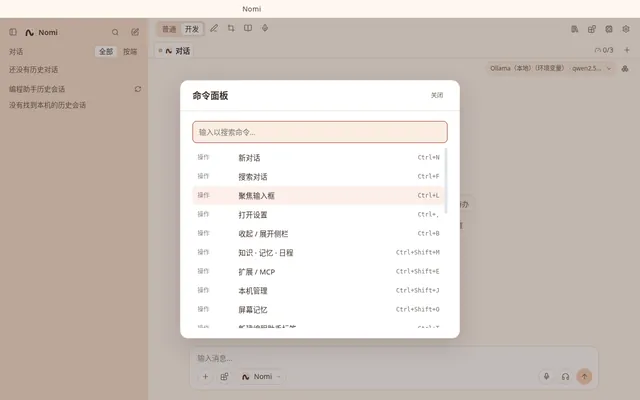
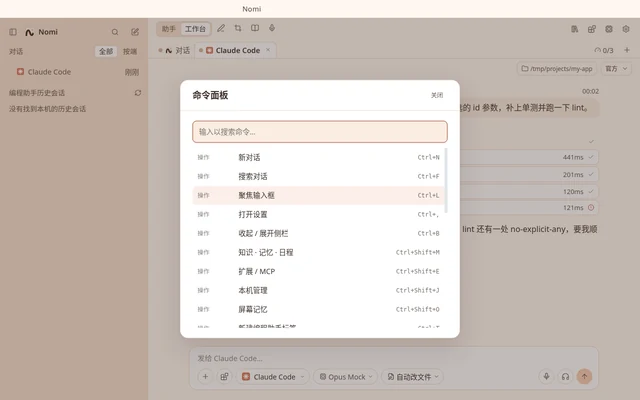
site: v1.1.1 home — new slogan, 懂你所需/付诸行动/桌面相伴 cards, modes copy, re-shot screenshots with 助手/工作台 labels

diff --git a/index.html b/index.html
@@ -3,16 +3,16 @@
 <head>
   <meta charset="UTF-8" />
   <meta name="viewport" content="width=device-width, initial-scale=1" />
-  <meta name="description" content="Nomi·诺米——平时是伙伴，干活是搭档。助手模式陪你聊天、提醒、记事；工作台模式管好 Claude Code、Codex 等编程助手。本地优先，Windows / macOS / Linux。" />
+  <meta name="description" content="Nomi·诺米——懂你的日常，也能搞定工作。助手模式陪你聊天、记事、提醒；工作台模式并行 Claude Code、Codex 等编程助手。本地优先，Windows / macOS / Linux。" />
   <meta name="theme-color" content="#FCEFE1" />
-  <meta property="og:title" content="Nomi·诺米 — 平时是伙伴，干活是搭档" />
-  <meta property="og:description" content="平时是伙伴，干活是搭档。助手模式陪伴，工作台模式管好编程助手。本地优先。" />
+  <meta property="og:title" content="Nomi·诺米 — 懂你的日常，也能搞定工作" />
+  <meta property="og:description" content="懂你的日常，也能搞定工作。助手模式陪伴日常，工作台模式并行编程助手。本地优先。" />
   <meta property="og:image" content="https://withnomi.app/assets/brand/nomi-brand-avatar.jpg" />
-  <title>Nomi·诺米 — 平时是伙伴，干活是搭档</title>
+  <title>Nomi·诺米 — 懂你的日常，也能搞定工作</title>
   <link rel="icon" href="assets/brand/nomi-mark.svg" type="image/svg+xml" />
   <link rel="preload" href="assets/fonts/nunito-latin.woff2" as="font" type="font/woff2" crossorigin />
   <link rel="preload" as="image" href="assets/brand/nomi-brand-avatar-440.webp" imagesrcset="assets/brand/nomi-brand-avatar-440.webp 440w, assets/brand/nomi-brand-avatar-880.webp 880w" imagesizes="(max-width: 500px) calc(100vw - 6rem), 413px" fetchpriority="high" />
-  <link rel="stylesheet" href="css/styles.css?v=20261022b" />
+  <link rel="stylesheet" href="css/styles.css?v=20261022c" />
 </head>
 <body data-page="home" id="top">
   <header class="site-header">
@@ -51,8 +51,8 @@
         <div class="hero-copy">
           <div class="hero-badge"><span class="dot" aria-hidden="true"></span> <span data-i18n="hero.badge">本地优先 · Windows / macOS / Linux</span></div>
           <h1 data-i18n="hero.title">Nomi·诺米</h1>
-          <p class="hero-slogan" data-i18n="hero.slogan">平时是伙伴，干活是搭档。</p>
-          <p class="hero-promise" data-i18n="hero.promise">助手模式陪你聊天、记事、提醒；工作台模式在一个窗口里管好 Claude Code、Codex 等编程助手。都在你自己的电脑上。</p>
+          <p class="hero-slogan" data-i18n="hero.slogan">懂你的日常，也能搞定工作。</p>
+          <p class="hero-promise" data-i18n="hero.promise">平常在助手模式里，诺米陪你聊天、记事、提醒；忙起来就切到工作台模式，和 Claude Code、Codex 等编程助手一起把活儿干完。</p>
           <div class="hero-actions">
             <a class="btn btn-primary btn-lg" href="#download" data-i18n="hero.download">立即下载</a>
             <a class="btn btn-secondary btn-lg" href="https://github.com/Cookieboty/nomi-ai" rel="noopener noreferrer" target="_blank" data-i18n="hero.github">在 GitHub 查看</a>
@@ -81,24 +81,24 @@
       <div class="container">
         <div class="section-head">
           <span class="section-label"><span class="star-mark" aria-hidden="true"><svg viewBox="0 0 24 24"><path fill="currentColor" d="M12 2C12.8 7 14.5 9 19.5 10C14.5 11 12.8 13 12 18C11.2 13 9.5 11 4.5 10C9.5 9 11.2 7 12 2Z"/></svg></span><span data-i18n="pillars.label">三个承诺</span></span>
-          <h2 id="pillars-title" data-i18n="pillars.title">陪伴 · 做事 · 本机</h2>
-          <p class="lead" data-i18n="pillars.lead">Nomi 不止是聊天助手：陪着你，也帮你把事做完，而且都在本机。</p>
+          <h2 id="pillars-title" data-i18n="pillars.title">懂你 · 行动 · 相伴</h2>
+          <p class="lead" data-i18n="pillars.lead">诺米记得你的习惯，替你动手做事，也一直在桌面守候。</p>
         </div>
         <div class="pillars">
           <article class="pillar">
             <div class="icon-star" aria-hidden="true"><svg viewBox="0 0 24 24"><path fill="currentColor" d="M12 2C12.8 7 14.5 9 19.5 10C14.5 11 12.8 13 12 18C11.2 13 9.5 11 4.5 10C9.5 9 11.2 7 12 2Z"/></svg></div>
-            <h3 data-i18n="pillars.tasks.title">陪着你</h3>
-            <p data-i18n="pillars.tasks.desc">会动会说话，记得你，按时提醒——把日子过得有人陪。</p>
+            <h3 data-i18n="pillars.tasks.title">懂你所需</h3>
+            <p data-i18n="pillars.tasks.desc">记得你的习惯和说过的话，知道你今天要忙什么，提醒总在刚刚好的时候。</p>
           </article>
           <article class="pillar">
             <div class="icon-star" aria-hidden="true"><svg viewBox="0 0 24 24"><path fill="currentColor" d="M12 2C12.8 7 14.5 9 19.5 10C14.5 11 12.8 13 12 18C11.2 13 9.5 11 4.5 10C9.5 9 11.2 7 12 2Z"/></svg></div>
-            <h3 data-i18n="pillars.exec.title">帮你做</h3>
-            <p data-i18n="pillars.exec.desc">知识库、屏幕问答，多个编程助手并行——想法变成行动。</p>
+            <h3 data-i18n="pillars.exec.title">付诸行动</h3>
+            <p data-i18n="pillars.exec.desc">读文件、看屏幕、查知识库，再叫上编程助手一起开工——说到就能做到。</p>
           </article>
           <article class="pillar">
             <div class="icon-star" aria-hidden="true"><svg viewBox="0 0 24 24"><path fill="currentColor" d="M12 2C12.8 7 14.5 9 19.5 10C14.5 11 12.8 13 12 18C11.2 13 9.5 11 4.5 10C9.5 9 11.2 7 12 2Z"/></svg></div>
-            <h3 data-i18n="pillars.care.title">在本机</h3>
-            <p data-i18n="pillars.care.desc">数据留在电脑上，云端或本地模型随你选——有用，也安心。</p>
+            <h3 data-i18n="pillars.care.title">桌面相伴</h3>
+            <p data-i18n="pillars.care.desc">会动、会说话，你忙时安静等候，闲下来就陪你聊上两句。</p>
           </article>
         </div>
       </div>
@@ -107,9 +107,10 @@
     <section class="section section-tight" aria-labelledby="modes-title">
       <div class="container">
         <div class="section-head">
-          <span class="section-label"><span class="star-mark" aria-hidden="true"><svg viewBox="0 0 24 24"><path fill="currentColor" d="M12 2C12.8 7 14.5 9 19.5 10C14.5 11 12.8 13 12 18C11.2 13 9.5 11 4.5 10C9.5 9 11.2 7 12 2Z"/></svg></span><span data-i18n="modes.label">两种用法</span></span>
-          <h2 id="modes-title" data-i18n="modes.title">一个诺米，两种用法</h2>
-          <p class="lead" data-i18n="modes.lead">顶栏一键切换，随时换回来；切走时后台任务照常进行。</p>
+          <span class="section-label"><span class="star-mark" aria-hidden="true"><svg viewBox="0 0 24 24"><path fill="currentColor" d="M12 2C12.8 7 14.5 9 19.5 10C14.5 11 12.8 13 12 18C11.2 13 9.5 11 4.5 10C9.5 9 11.2 7 12 2Z"/></svg></span><span data-i18n="modes.label">随时切换</span></span>
+          <h2 id="modes-title" data-i18n="modes.title">两种模式，一个诺米</h2>
+          <p class="lead" data-i18n="modes.lead">一种陪伴，两种工作方式。</p>
+          <p class="lead" data-i18n="modes.sub">日常交给诺米，复杂工作也能从容应对。</p>
         </div>
         <div class="modes">
           <article class="mode-card">
@@ -153,7 +154,7 @@
             <p data-i18n="spot.coding.desc">切到工作台模式，Claude Code、Codex、Gemini CLI、Grok、dsh 多标签并行；工具调用、diff 与子代理一目了然，权限与账号随手切换。</p>
           </div>
           <div class="spotlight-media">
-            <img src="assets/screenshots/coding-agent.webp?v=20261022b" srcset="assets/screenshots/coding-agent-640.webp?v=20261022b 640w, assets/screenshots/coding-agent.webp?v=20261022b 1280w, assets/screenshots/coding-agent-2x.webp?v=20261022b 2560w" sizes="(max-width: 800px) calc(100vw - 2.5rem), 560px" data-i18n-alt="gallery.codingAlt" alt="工作台模式：Claude Code 标签页，思考、文件探索、子代理与编辑步骤清晰可见，底部是权限模式" width="1280" height="800" loading="lazy" decoding="async" />
+            <img src="assets/screenshots/coding-agent.webp?v=20261022c" srcset="assets/screenshots/coding-agent-640.webp?v=20261022c 640w, assets/screenshots/coding-agent.webp?v=20261022c 1280w, assets/screenshots/coding-agent-2x.webp?v=20261022c 2560w" sizes="(max-width: 800px) calc(100vw - 2.5rem), 560px" data-i18n-alt="gallery.codingAlt" alt="工作台模式：Claude Code 标签页，思考、文件探索、子代理与编辑步骤清晰可见，底部是权限模式" width="1280" height="800" loading="lazy" decoding="async" />
           </div>
         </div>
       </div>
@@ -224,11 +225,11 @@
             <figcaption data-i18n="gallery.mascot">桌面伙伴</figcaption>
           </figure>
           <figure class="gallery-item">
-            <img src="assets/screenshots/chat.webp?v=20261022b" srcset="assets/screenshots/chat-640.webp?v=20261022b 640w, assets/screenshots/chat.webp?v=20261022b 1280w, assets/screenshots/chat-2x.webp?v=20261022b 2560w" sizes="(max-width: 700px) calc(100vw - 2.5rem), 560px" data-i18n-alt="gallery.chatAlt" alt="助手模式：顶栏可切换模式，左侧会话列表，右侧与诺米整理待办的对话" width="1280" height="800" loading="lazy" decoding="async" />
+            <img src="assets/screenshots/chat.webp?v=20261022c" srcset="assets/screenshots/chat-640.webp?v=20261022c 640w, assets/screenshots/chat.webp?v=20261022c 1280w, assets/screenshots/chat-2x.webp?v=20261022c 2560w" sizes="(max-width: 700px) calc(100vw - 2.5rem), 560px" data-i18n-alt="gallery.chatAlt" alt="助手模式：顶栏一键切换助手 / 工作台，左侧会话列表，右侧是开聊的快捷建议" width="1280" height="800" loading="lazy" decoding="async" />
             <figcaption data-i18n="gallery.chat">助手模式</figcaption>
           </figure>
           <figure class="gallery-item">
-            <img src="assets/screenshots/command-palette.webp?v=20261022b" srcset="assets/screenshots/command-palette-640.webp?v=20261022b 640w, assets/screenshots/command-palette.webp?v=20261022b 1280w, assets/screenshots/command-palette-2x.webp?v=20261022b 2560w" sizes="(max-width: 700px) calc(100vw - 2.5rem), 560px" data-i18n-alt="gallery.paletteAlt" alt="命令面板（Ctrl/⌘+K）：搜索并执行新对话、设置、记忆等命令" width="1280" height="800" loading="lazy" decoding="async" />
+            <img src="assets/screenshots/command-palette.webp?v=20261022c" srcset="assets/screenshots/command-palette-640.webp?v=20261022c 640w, assets/screenshots/command-palette.webp?v=20261022c 1280w, assets/screenshots/command-palette-2x.webp?v=20261022c 2560w" sizes="(max-width: 700px) calc(100vw - 2.5rem), 560px" data-i18n-alt="gallery.paletteAlt" alt="命令面板（Ctrl/⌘+K）：搜索并执行新对话、设置、记忆等命令" width="1280" height="800" loading="lazy" decoding="async" />
             <figcaption data-i18n="gallery.palette">命令面板（Ctrl/⌘+K）</figcaption>
           </figure>
           <figure class="gallery-item">
@@ -325,7 +326,7 @@
             <img class="mark" src="assets/brand/nomi-mark.svg" alt="" width="32" height="32" />
             <span class="logo-text">Nomi·诺米</span>
           </a>
-          <p data-i18n="footer.tagline">平时是伙伴，干活是搭档。助手模式陪伴，工作台模式做事，都在本机。</p>
+          <p data-i18n="footer.tagline">懂你的日常，也能搞定工作。日常有助手模式相伴，忙起来交给工作台模式。</p>
         </div>
         <div class="footer-col">
           <h4 data-i18n="footer.product">产品</h4>
@@ -354,7 +355,7 @@
       </div>
     </div>
   </footer>
-  <script src="js/i18n.js?v=20261022b"></script>
-  <script src="js/main.js?v=20261022b"></script>
+  <script src="js/i18n.js?v=20261022c"></script>
+  <script src="js/main.js?v=20261022c"></script>
 </body>
 </html>

diff --git a/js/i18n.js b/js/i18n.js
@@ -7,8 +7,8 @@
 
   var dict = {
     zh: {
-      "meta.home.title": "Nomi·诺米 — 平时是伙伴，干活是搭档",
-      "meta.home.desc": "Nomi·诺米——平时是伙伴，干活是搭档。助手模式陪你聊天、提醒、记事；工作台模式管好 Claude Code、Codex 等编程助手。本地优先，Windows / macOS / Linux。",
+      "meta.home.title": "Nomi·诺米 — 懂你的日常，也能搞定工作",
+      "meta.home.desc": "Nomi·诺米——懂你的日常，也能搞定工作。助手模式陪你聊天、记事、提醒；工作台模式并行 Claude Code、Codex 等编程助手。本地优先，Windows / macOS / Linux。",
       "meta.features.title": "功能 — Nomi·诺米",
       "meta.features.desc": "Nomi·诺米核心能力：助手模式陪伴对话，工作台模式并行编程助手；桌面伙伴与语音、知识库与记忆、自动化与 MCP、本地优先。",
       "meta.download.title": "下载 — Nomi·诺米",
@@ -32,8 +32,8 @@
 
       "hero.badge": "本地优先 · Windows / macOS / Linux",
       "hero.title": "Nomi·诺米",
-      "hero.slogan": "平时是伙伴，干活是搭档。",
-      "hero.promise": "助手模式陪你聊天、记事、提醒；工作台模式在一个窗口里管好 Claude Code、Codex 等编程助手。都在你自己的电脑上。",
+      "hero.slogan": "懂你的日常，也能搞定工作。",
+      "hero.promise": "平常在助手模式里，诺米陪你聊天、记事、提醒；忙起来就切到工作台模式，和 Claude Code、Codex 等编程助手一起把活儿干完。",
       "hero.download": "立即下载",
       "hero.github": "在 GitHub 查看",
       "hero.meta.mit": "MIT 开源",
@@ -43,17 +43,18 @@
       "hero.avatarAlt": "Nomi·诺米 官方品牌立绘",
 
       "pillars.label": "三个承诺",
-      "pillars.title": "陪伴 · 做事 · 本机",
-      "pillars.lead": "Nomi 不止是聊天助手：陪着你，也帮你把事做完，而且都在本机。",
-      "pillars.tasks.title": "陪着你",
-      "pillars.tasks.desc": "会动会说话，记得你，按时提醒——把日子过得有人陪。",
-      "pillars.exec.title": "帮你做",
-      "pillars.exec.desc": "知识库、屏幕问答，多个编程助手并行——想法变成行动。",
-      "pillars.care.title": "在本机",
-      "pillars.care.desc": "数据留在电脑上，云端或本地模型随你选——有用，也安心。",
-      "modes.label": "两种用法",
-      "modes.title": "一个诺米，两种用法",
-      "modes.lead": "顶栏一键切换，随时换回来；切走时后台任务照常进行。",
+      "pillars.title": "懂你 · 行动 · 相伴",
+      "pillars.lead": "诺米记得你的习惯，替你动手做事，也一直在桌面守候。",
+      "pillars.tasks.title": "懂你所需",
+      "pillars.tasks.desc": "记得你的习惯和说过的话，知道你今天要忙什么，提醒总在刚刚好的时候。",
+      "pillars.exec.title": "付诸行动",
+      "pillars.exec.desc": "读文件、看屏幕、查知识库，再叫上编程助手一起开工——说到就能做到。",
+      "pillars.care.title": "桌面相伴",
+      "pillars.care.desc": "会动、会说话，你忙时安静等候，闲下来就陪你聊上两句。",
+      "modes.label": "随时切换",
+      "modes.title": "两种模式，一个诺米",
+      "modes.lead": "一种陪伴，两种工作方式。",
+      "modes.sub": "日常交给诺米，复杂工作也能从容应对。",
       "modes.assistant.title": "助手模式",
       "modes.assistant.desc": "只和诺米聊天。问问题、整理待办、读文件、看屏幕、记住你的习惯。界面干净，适合每个人。",
       "modes.workbench.title": "工作台模式",
@@ -90,7 +91,7 @@
       "gallery.knowledge": "本地知识库",
       "gallery.tools": "工具权限",
       "gallery.mascotAlt": "桌面伙伴 Nomi 的立绘、对话气泡与语音工具栏",
-      "gallery.chatAlt": "助手模式：顶栏可切换模式，左侧会话列表，右侧与诺米整理待办的对话",
+      "gallery.chatAlt": "助手模式：顶栏一键切换助手 / 工作台，左侧会话列表，右侧是开聊的快捷建议",
       "gallery.paletteAlt": "命令面板（Ctrl/⌘+K）：搜索并执行新对话、设置、记忆等命令",
       "gallery.providersAlt": "编程助手设置：Nomi、Claude Code、Codex、dsh、Grok、Gemini 分页，Nomi 供应商含 DeepSeek、OpenAI、Anthropic",
       "gallery.knowledgeAlt": "本地知识库检索：按关键词命中文件夹里的笔记，并标出来源文档",
@@ -106,7 +107,7 @@
       "cta.download": "前往下载",
       "cta.releases": "GitHub Releases",
 
-      "footer.tagline": "平时是伙伴，干活是搭档。助手模式陪伴，工作台模式做事，都在本机。",
+      "footer.tagline": "懂你的日常，也能搞定工作。日常有助手模式相伴，忙起来交给工作台模式。",
       "footer.product": "产品",
       "footer.community": "社区",
       "nav.contact": "联系我们",
@@ -335,8 +336,8 @@
     },
 
     en: {
-      "meta.home.title": "Nomi — A friend day to day, a partner when it's time to work",
-      "meta.home.desc": "Nomi — a friend day to day, a partner when it's time to work. Assistant mode for chat and reminders; Workbench mode for Claude Code, Codex and more. Local-first. Windows / macOS / Linux.",
+      "meta.home.title": "Nomi — Knows your day, gets the work done",
+      "meta.home.desc": "Nomi — knows your day, gets the work done. Assistant mode for chat, notes and reminders; Workbench mode runs Claude Code, Codex and more side by side. Local-first. Windows / macOS / Linux.",
       "meta.features.title": "Features — Nomi",
       "meta.features.desc": "Nomi: Assistant mode for everyday chat, Workbench mode for coding agents side by side; companion & voice, knowledge & memory, automation & MCP, local-first.",
       "meta.download.title": "Download — Nomi",
@@ -360,8 +361,8 @@
 
       "hero.badge": "Local-first · Windows / macOS / Linux",
       "hero.title": "Nomi·诺米",
-      "hero.slogan": "A friend day to day, a partner when it's time to work.",
-      "hero.promise": "Assistant mode chats, remembers and reminds. Workbench mode runs Claude Code, Codex and more in one window. All on your own computer.",
+      "hero.slogan": "Knows your day. Gets the work done.",
+      "hero.promise": "Day to day, Assistant mode is Nomi chatting, taking notes and reminding you. When things get busy, switch to Workbench mode and finish the work together with Claude Code, Codex and more.",
       "hero.download": "Download now",
       "hero.github": "View on GitHub",
       "hero.meta.mit": "MIT open source",
@@ -371,17 +372,18 @@
       "hero.avatarAlt": "Nomi official brand portrait",
 
       "pillars.label": "Three promises",
-      "pillars.title": "Company · Work · Local",
-      "pillars.lead": "Nomi is more than chat: company when you need it, work when you do, always on your machine.",
-      "pillars.tasks.title": "With you",
-      "pillars.tasks.desc": "Moves, talks, remembers you, reminds you on time — a companion for the day.",
-      "pillars.exec.title": "Gets it done",
-      "pillars.exec.desc": "Your files, your screen, coding agents side by side — ideas into action.",
-      "pillars.care.title": "Stays local",
-      "pillars.care.desc": "Your data stays home; pick cloud or local models — useful and trustworthy.",
-      "modes.label": "Two ways",
-      "modes.title": "One Nomi, two ways",
-      "modes.lead": "Switch from the top bar anytime; background tasks keep running.",
+      "pillars.title": "Knows you · Acts · Stays close",
+      "pillars.lead": "Nomi remembers how you like things, does the work for you, and is always there on your desktop.",
+      "pillars.tasks.title": "Knows what you need",
+      "pillars.tasks.desc": "Remembers your habits and what you've said, knows what's on your plate, and reminds you right on time.",
+      "pillars.exec.title": "Takes action",
+      "pillars.exec.desc": "Reads files, looks at your screen, searches your knowledge base, then brings in coding agents — said and done.",
+      "pillars.care.title": "On your desktop",
+      "pillars.care.desc": "Moves and talks, waits quietly while you're busy, and is up for a chat when you're free.",
+      "modes.label": "Switch anytime",
+      "modes.title": "Two modes, one Nomi",
+      "modes.lead": "One companion, two ways to work.",
+      "modes.sub": "Leave the everyday to Nomi — and take on complex work with ease.",
       "modes.assistant.title": "Assistant mode",
       "modes.assistant.desc": "Just you and Nomi. Ask, plan your day, read files, look at your screen; she remembers how you like things. Clean and simple, for everyone.",
       "modes.workbench.title": "Workbench mode",
@@ -418,7 +420,7 @@
       "gallery.knowledge": "Local knowledge base",
       "gallery.tools": "Tool permissions",
       "gallery.mascotAlt": "Nomi the desktop companion with a chat bubble and the voice toolbar",
-      "gallery.chatAlt": "Assistant mode: mode switch in the top bar, conversation list on the left, planning the day with Nomi on the right",
+      "gallery.chatAlt": "Assistant mode: Assistant / Workbench switch in the top bar, conversation list on the left, quick starters on the right",
       "gallery.paletteAlt": "Command palette (Ctrl/⌘+K) for new chat, settings, memory and more",
       "gallery.providersAlt": "Coding assistants settings: Nomi, Claude Code, Codex, dsh, Grok and Gemini tabs; Nomi providers include DeepSeek, OpenAI and Anthropic",
       "gallery.knowledgeAlt": "Local knowledge base search: matching passages from your folder, with source documents",
@@ -434,7 +436,7 @@
       "cta.download": "Go to download",
       "cta.releases": "GitHub Releases",
 
-      "footer.tagline": "A friend day to day, a partner when it's time to work. Assistant for company, Workbench for getting things done — local-first.",
+      "footer.tagline": "Knows your day, gets the work done. Assistant mode by your side, Workbench mode when things get busy.",
       "footer.product": "Product",
       "footer.community": "Community",
       "nav.contact": "Contact",
